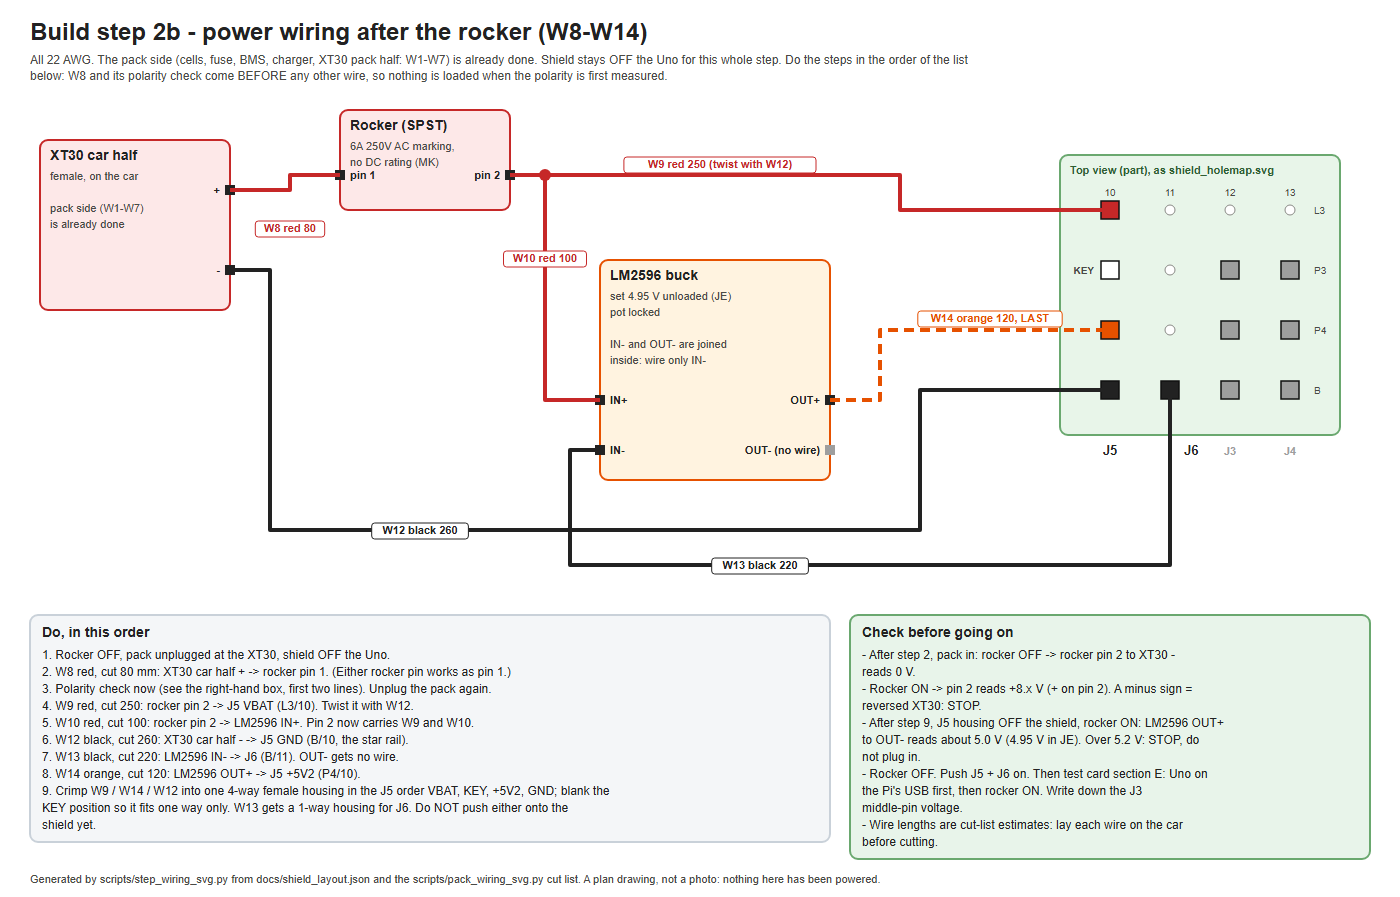
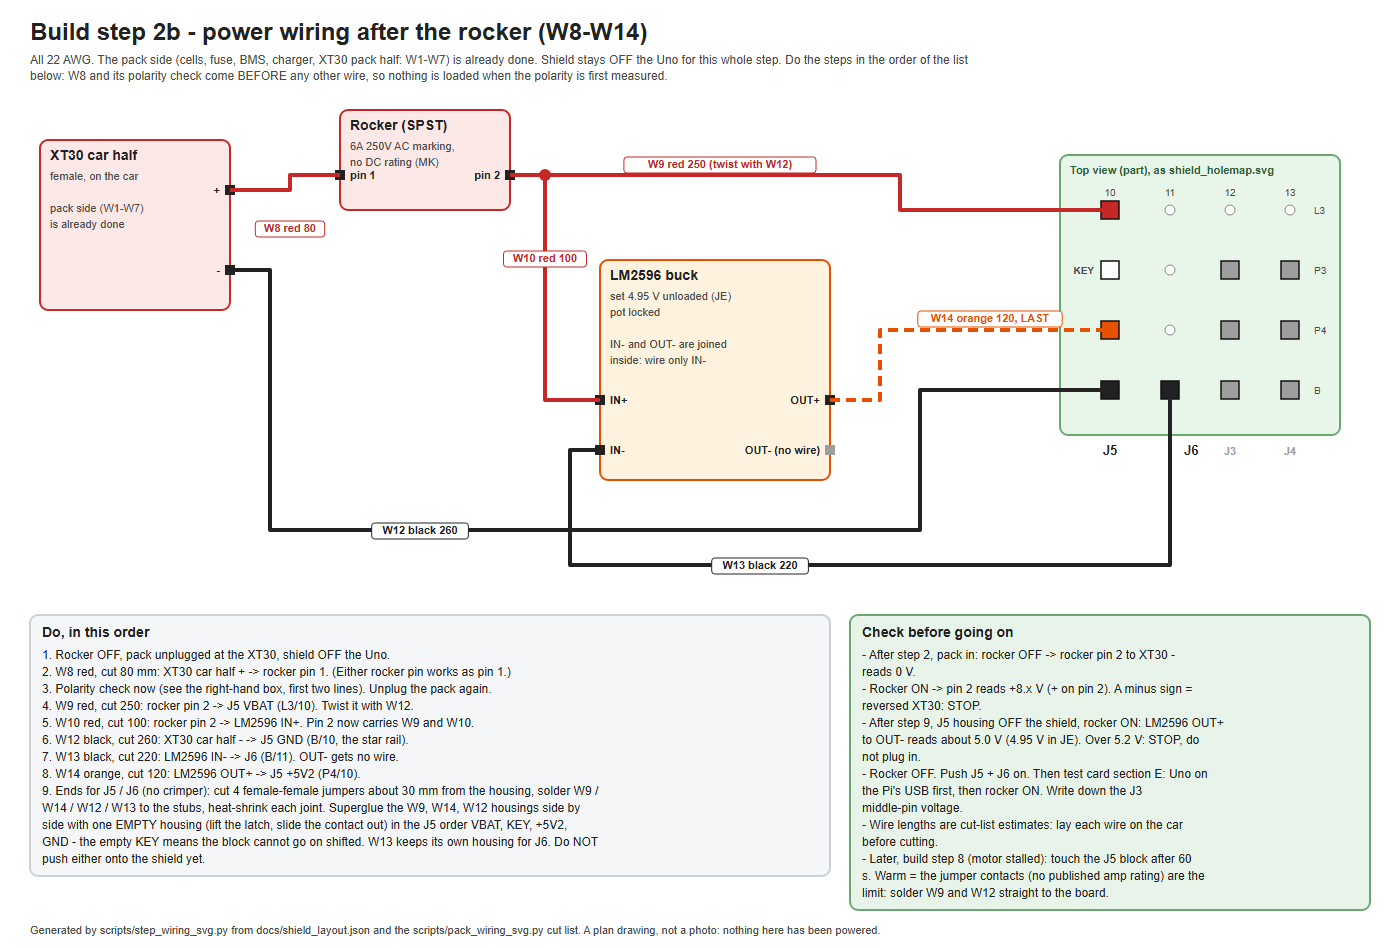
Records MM + MN: J5/J6/J1 ends from cut Dupont jumpers in a glued block with an empty KEY (EDGELEC listing has no gauge or amp rating), wiring sheets updated; build step 2b done per Evan, LM2596 output 4.96 V, card E next

diff --git a/scripts/step_wiring_svg.py b/scripts/step_wiring_svg.py
@@ -205,16 +205,20 @@ def build_2b(d: dict) -> str:
           f"6. W12 black, cut {CUTS['W12']}: XT30 car half - -> J5 GND ({j5['GND']}, the star rail).",
           f"7. W13 black, cut {CUTS['W13']}: LM2596 IN- -> J6 ({j6['GND']}). OUT- gets no wire.",
           f"8. W14 orange, cut {CUTS['W14']}: LM2596 OUT+ -> J5 +5V2 ({j5['5V2']}).",
-          "9. Crimp W9 / W14 / W12 into one 4-way female housing in the J5 order VBAT, KEY, +5V2, GND; "
-          "blank the KEY position so it fits one way only. W13 gets a 1-way housing for J6. Do NOT push either "
-          "onto the shield yet."]
+          "9. Ends for J5 / J6 (no crimper): cut 4 female-female jumpers about 30 mm from the housing, "
+          "solder W9 / W14 / W12 / W13 to the stubs, heat-shrink each joint. Superglue the W9, W14, W12 "
+          "housings side by side with one EMPTY housing (lift the latch, slide the contact out) in the J5 order "
+          "VBAT, KEY, +5V2, GND - the empty KEY means the block cannot go on shifted. W13 keeps its own housing "
+          "for J6. Do NOT push either onto the shield yet."]
     chk = ["- After step 2, pack in: rocker OFF -> rocker pin 2 to XT30 - reads 0 V.",
            "- Rocker ON -> pin 2 reads +8.x V (+ on pin 2). A minus sign = reversed XT30: STOP.",
            "- After step 9, J5 housing OFF the shield, rocker ON: LM2596 OUT+ to OUT- reads about 5.0 V "
            "(4.95 V in JE). Over 5.2 V: STOP, do not plug in.",
            "- Rocker OFF. Push J5 + J6 on. Then test card section E: Uno on the Pi's USB first, then rocker ON. "
            "Write down the J3 middle-pin voltage.",
-           "- Wire lengths are cut-list estimates: lay each wire on the car before cutting."]
+           "- Wire lengths are cut-list estimates: lay each wire on the car before cutting.",
+           "- Later, build step 8 (motor stalled): touch the J5 block after 60 s. Warm = the jumper contacts "
+           "(no published amp rating) are the limit: solder W9 and W12 straight to the board."]
     h1 = s.panel(30, y, 800, "Do, in this order", do, "#F4F6F8", "#C9D1D9")
     h2 = s.panel(850, y, 520, "Check before going on", chk, "#E8F4EA", "#6AA86F")
     yy = y + max(h1, h2) + 24
@@ -282,9 +286,10 @@ def build_5(d: dict) -> str:
 
     y = 690
     do = ["1. Rocker OFF, XT30 unplugged.",
-          f"2. Female Dupont crimps on red, black, green, blue; one 4-way housing in the order red M1 "
-          f"({j1['M1']}), black M2 ({j1['M2']}), green GND ({j1['GND']}), blue +5V2 ({j1['5V2']}).",
-          "3. Male Dupont pins on yellow and white.",
+          f"2. Cut 4 female-female jumpers about 30 mm from the housing; solder red, black, green, blue to "
+          f"the stubs, heat-shrink. Superglue the housings side by side in the J1 order red M1 ({j1['M1']}), "
+          f"black M2 ({j1['M2']}), green GND ({j1['GND']}), blue +5V2 ({j1['5V2']}).",
+          "3. Yellow and white: the same with the male end of 2 jumpers (male pin to plug into the Uno).",
           f"4. Push the housing onto J1. Look: blue sits on the pin nearest J5 ({j1['5V2']}). A one-pin shift "
           "puts motor voltage on the encoder.",
           f"5. Yellow into {enc['yellow']}, white into {enc['white']}.",

diff --git a/docs/Project Record — Full Chronological History.md b/docs/Project Record — Full Chronological History.md
@@ -385,6 +385,8 @@ the dated entry, not the digest.
 - [MJ - Shield docs to the as-built direct-to-pin wiring (layout, test card, guides, renders); meter checks A-D PASS per Evan](#appendix-mj---shield-docs-to-the-as-built-direct-to-pin-wiring-layout-test-card-guides-renders-meter-checks-a-d-pass-per-evan-2026-10-31-1629-cdt) (10-31)
 - [MK - Rocker switch rating read: 6A 250V / 10A 125V (AC marking); judged adequate behind the 3 A fuse](#appendix-mk---rocker-switch-rating-read-6a-250v--10a-125v-ac-marking-judged-adequate-behind-the-3-a-fuse-2026-10-31-1753-cdt) (10-31)
 - [ML - Wiring sheets for build steps 2b (power after the rocker) and 5 (motor + encoder)](#appendix-ml---wiring-sheets-for-build-steps-2b-power-after-the-rocker-and-5-motor--encoder-2026-10-31-2114-cdt) (10-31)
+- [MM - J5 / J6 / J1 ends from cut Dupont jumpers (listing checked: no gauge, no amp rating); wiring sheets updated](#appendix-mm---j5--j6--j1-ends-from-cut-dupont-jumpers-listing-checked-no-gauge-no-amp-rating-wiring-sheets-updated-2026-10-31-2233-cdt) (10-31)
+- [MN - Build step 2b done (Evan): LM2596 output 4.96 V; card E next](#appendix-mn---build-step-2b-done-evan-lm2596-output-496-v-card-e-next-2026-10-31-2326-cdt) (10-31)
 
 ---
 
@@ -22338,3 +22340,27 @@ HARD CONSTRAINTS
 - 5: the "blue -> J1 5V2 beeps" check is replaced (a housing cannot be probed through the cable's JST end): look that blue sits on P3/6, the end nearest J5, and meter J1 +5V2 to J5 VBAT silent before power.
 
 **Checks (2026-10-31 ~21:13 CDT):** svg_text_overlap 0 overlaps on both (first render had 14, fixed: LM2596 pins moved below its text, close-up cut to the header columns, hole legend moved into step 9); both PNGs viewed by eye; suite `35 passed, 0 failed, 0 skipped  (of 35)`. Plan drawings only: nothing in them has been built or powered.
+
+# Appendix MM - J5 / J6 / J1 ends from cut Dupont jumpers (listing checked: no gauge, no amp rating); wiring sheets updated (2026-10-31, ~22:33 CDT)
+**Ask (Evan):** do the 4 shield-end wires in step 2b need female connectors -> yes (J5 / J6 are male headers); Evan: "i'd be using the jumpers so check the amazon"; then "yes" to updating the sheets.
+
+**Listing checked (2026-10-31, amazon.com/dp/B07GCZ52WF, EDGELEC 120 pcs, $6.98, the BOM jumper pack):** "12-core pure copper wire", "brass nickel plated terminals", 2.54 mm 1-pin housings, 10 cm, 40 each F-F / M-F / M-M. NO wire gauge and NO current rating on the listing; no Q&A or review on current loaded. Gauge estimated 26-28 AWG (typical for the type) - unverified.
+
+**Judgement (Claude, untested):** a 30 mm stub of 28 AWG at 2.8 A drops ~18 mV and makes ~50 mW - fine. The unrated contact is the weak point on W9 (VBAT) and W12 (GND), which carry the whole car's current (up to ~2.6-2.8 A estimated, 3 A fuse). Heat check added for build step 8: J5 block warm after 60 s at motor stall -> solder W9 / W12 straight to the board.
+
+**Sheets changed (scripts/step_wiring_svg.py, regenerated):**
+- step2b_power_wiring: step 9 is now the jumper method - cut 4 F-F jumpers ~30 mm from the housing, solder W9 / W14 / W12 / W13 on, heat-shrink; superglue the W9, W14, W12 housings with one EMPTY housing at KEY in the J5 order VBAT, KEY, +5V2, GND (the empty KEY stops a shifted fit); W13 keeps its own housing for J6. Check list gained the step-8 heat check.
+- step5_motor_encoder: steps 2-3 likewise - 4 F-F stubs glued in J1 order (red, black, green, blue); yellow / white on the male end of 2 jumpers. J1 has no key pin: the visual check (blue nearest J5) stays the guard.
+
+**Checks (2026-10-31 ~22:33 CDT):** svg_text_overlap 0 / 0 overlaps; both PNGs viewed by eye; suite `35 passed, 0 failed, 0 skipped  (of 35)`. Nothing built or powered.
+
+# Appendix MN - Build step 2b done (Evan): LM2596 output 4.96 V; card E next (2026-10-31, ~23:26 CDT)
+**Ask (Evan):** "2b is done converter reads 4.96 off multimeter".
+
+**Build step 2b (power wiring after the rocker, W8-W14): DONE, per Evan.** The LM2596 output metered **4.96 V** with Evan's multimeter, fed from the pack through the rocker. This lies inside the step-1 window (4.95-5.05 V) and between the earlier readings (4.95 V unloaded in JE; 4.99 V restated in JF / JR without its own measurement).
+
+**Not reported (asked-for checks, results not given):** the rocker-OFF 0 V reading at pin 2, the polarity reading (+8.x V), whether the 4.96 V was taken with the J5 housing off the shield (W14 unplugged) as the sheet says, the connector method actually used for J5 / J6 (MM's cut-jumper block assumed), and the wire lengths cut. Recorded as missing, not assumed passed.
+
+**Shield state:** still never powered through J5 - card section E (first power-up: Uno on the Pi's USB first, then rocker ON; J5 top pin ~8 V, J3 middle ~5.0 V written down, Uno 5V ~5 V) is next, then build step 5 (motor + encoder).
+
+**Updated:** HANDOFF next action 2, .claude/project-memory/hardware-power.md.

diff --git a/HANDOFF.md b/HANDOFF.md
@@ -1,6 +1,6 @@
 # Handoff
 
-**Last updated: 2026-10-31 ~16:29 CDT** (records LO-MJ; MJ: shield layout / test card / guides / renders moved to the as-built direct-to-pin wiring, suite 34/34; meter checks A-D PASS per Evan (card version unconfirmed), E not done; MI: servo + strip data wired straight to Uno D7 / D6 / D5, J2 SIG path abandoned, C1 fixed, strip DIN resistors never built (Evan, final); MH: 2026-11-01 soft milestone (M3) NOT met - flagged; paste-ready prompt rewritten; MG: Uno re-flashed with the D7/D6/D5 build; MF: audit MB high + listed meds fixed, landing check caught a SIGTERM deadlock (fixed); ME: firmware + docs moved to the as-built pins servo D7 / strips D6, D5 - compiled, NOT flashed (item 0b); push state: run `git fetch` then `git status -sb`) — this file is the ONLY live snapshot.
+**Last updated: 2026-10-31 ~23:26 CDT** (records LO-MN; MN: build step 2b DONE, LM2596 output 4.96 V (Evan), card E next; MM: J5 / J6 / J1 ends from cut Dupont jumpers, glued block with empty KEY (listing has no amp rating); ML: wiring sheets docs/step2b_power_wiring.png + docs/step5_motor_encoder.png (scripts/step_wiring_svg.py); MK: rocker 6A 250V AC marking; MJ: shield layout / test card / guides / renders moved to the as-built direct-to-pin wiring, suite 34/34; meter checks A-D PASS per Evan (card version unconfirmed), E not done; MI: servo + strip data wired straight to Uno D7 / D6 / D5, J2 SIG path abandoned, C1 fixed, strip DIN resistors never built (Evan, final); MH: 2026-11-01 soft milestone (M3) NOT met - flagged; paste-ready prompt rewritten; MG: Uno re-flashed with the D7/D6/D5 build; MF: audit MB high + listed meds fixed, landing check caught a SIGTERM deadlock (fixed); ME: firmware + docs moved to the as-built pins servo D7 / strips D6, D5 - compiled, NOT flashed (item 0b); push state: run `git fetch` then `git status -sb`) — this file is the ONLY live snapshot.
 History lives in `docs/Project Record — Full Chronological History.md`
 (append-only, ~~312 appendices A–KZ~~ ~~323 appendices A-LK as of 2026-10-29~~ ~~327 appendices A-LO~~ ~~328 appendices A-LP~~ ~~329 appendices A-LQ~~ ~~330 appendices A-LR~~ ~~331 appendices A-LS~~ ~~332 appendices A-LT~~ ~~333 appendices A-LU~~ ~~334 appendices A-LV~~ ~~335 appendices A-LW~~ ~~336 appendices A-LX~~ ~~337 appendices A-LY~~ ~~338 appendices A-LZ~~ ~~339 appendices A-MA~~ ~~341 appendices A-MC~~ ~~342 appendices A-MD~~ ~~343 appendices A-ME~~ ~~344 appendices A-MF~~ ~~345 appendices A-MG~~ 346 appendices A-MH (MB = the 2026-10-31 scheduled audit) as of 2026-10-30; BM/BN/BP/BU/CT/CY/DB/DE/DN/EL/EN/EO/ET/EU are corrections to earlier entries). When this file and the record disagree about
 a historical fact, **the record wins**.
@@ -529,10 +529,11 @@ NEXT ACTIONS, highest value first (all need Evan at the bench):
 1. ~~Fix the servo signal path + re-seat C1 (record LC).~~ DONE/REPLACED by MI
    (direct-to-pin wiring; C1 fixed). On the card, check D7 socket -> servo
    signal lead (BEEP) instead of D7 -> J2; skip the two ~400 ohm strip rows.
-2. ~~Meter test card sections A-D (power OFF), then~~ A-D PASS (MJ). Next: wire
+2. ~~Meter test card sections A-D (power OFF), then~~ A-D PASS (MJ). ~~Next: wire
    the power path (step 2b, W8-W14; read the rocker's DC rating first; meter the
-   LM2596 output alone before W14 reaches J5), then card section E (first
-   power-up; write down the J3 voltage - settles LM2596 4.95 vs 4.99 V).
+   LM2596 output alone before W14 reaches J5), then~~ **2b DONE (MN): LM2596
+   output 4.96 V on the meter.** Next: card section E (first power-up; write down
+   the J3 voltage), then build step 5 (motor + encoder, docs/step5_motor_encoder.png).
 3. Power build checks: XT30 -> rocker -> VBAT (rocker OFF = 0 V; polarity +8.x V);
    charger board 2 no-load test (8.4 V OK, >= 8.6 V reject).
 4. Shield back on the Uno, Uno on the Pi's USB, then the on-car session:

diff --git a/.claude/project-memory/hardware-power.md b/.claude/project-memory/hardware-power.md
@@ -173,3 +173,4 @@ Cross-topic facts live in the file that fit best; check the sibling hardware-*.m
 - **2026-10-30 (record LY): the Anker A1275 bank PASSES with a different USB-C cable** - 4.97-5.08 V, throttled 0x0 throughout (boot included) under 60 s all-core + inference, 3 A mode. The OLD cable caused every under-voltage in LR-LX (the backup most likely too; not re-tested). Car rule: a short known-good USB-C cable for the Pi; the 600 mA USB cap (Uno + TB6612 logic + servo) is still untested. Heat 79.6 C bare - the kit fan case is required.
 - 2026-10-31 (record MA, audit MB): QUALIFIER on the 'fan case is the fix / required' lines above - they come from the synthetic all-core test (77.9 / 79.6 C). Real teleop on the BARE board plateaus at 45-47 C (MA, throttled 0x0), so bench work needs no case; the case/cooling is a CAR requirement (enclosure, motor, AUTO), not yet measured there.
 - 2026-10-31 (record MK): ROCKER rating (Evan) = 6A 250V / 10A 125V, an AC marking; no DC rating printed. The 3 A pack fuse limits its current to ~3 A at <=8.4 V DC (worst-case estimate 2.6-2.8 A) - judged adequate, not a DC rating, untested. Watch for: switch body warm after a run, or the car cutting out when the switch is bumped.
+- 2026-10-31 ~23:26 CDT (record MN): build step 2b DONE (Evan) - W8-W14 wired; LM2596 output metered 4.96 V (pack-fed, before card E). Individual 2b check readings (0 V rocker OFF, polarity) not reported. Card E (first power-up of the shield) NOT done.
